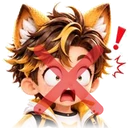
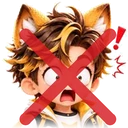
過關圖示：小花綠框加粗、阿發紅 X 加深加長

Changed region(s): [[0.125, 0.2188, 0.9375, 1.0]]

diff --git a/index.html b/index.html
@@ -1202,7 +1202,7 @@
     <img class="mascot m-sec" src="img/mascot/xiaohua-analyst.webp" alt="" width="190" height="190" loading="lazy" aria-hidden="true">
     <p class="eyebrow">DAILY ANALYSIS</p>
     <h2>每日分析</h2>
-    <p class="lead col">每天挑幾場可以單場投注的比賽，把先發、打線、交手與盤口一項一項攤開，推薦寫在文章最後，點進去就看得到。比賽打完，清單後面會標上結果：<img class="face-i" src="img/face-win.webp" alt="綠色笑臉" width="20" height="20"> 推薦過關、<img class="face-i" src="img/face-lose.webp" alt="紅色哭臉" width="20" height="20"> 沒過。</p>
+    <p class="lead col">每天挑幾場可以單場投注的比賽，把先發、打線、交手與盤口一項一項攤開，推薦寫在文章最後，點進去就看得到。比賽打完，清單後面會標上結果：<img class="face-i" src="img/face-win.webp?v=3" alt="綠色笑臉" width="20" height="20"> 推薦過關、<img class="face-i" src="img/face-lose.webp?v=3" alt="紅色哭臉" width="20" height="20"> 沒過。</p>
 
     <div class="news">
       <a class="board" id="board" href="#" hidden>
@@ -1490,7 +1490,7 @@
     function el(tag, cls, text) { var e = document.createElement(tag); if (cls) e.className = cls; if (text != null) e.textContent = text; return e; }
     function md(d) { var p = d.split("-"); return +p[1] + "/" + +p[2]; }
     function pickOf(p) { return p.market + "　" + p.selection + " @" + p.odds; }
-    var RES = { win: ["img/face-win.webp", "推薦過關"], lose: ["img/face-lose.webp", "推薦沒過"], push: ["走盤", "走盤，退還本金", 1], "void": ["延賽", "延賽，依規定退款", 1] };
+    var RES = { win: ["img/face-win.webp?v=3", "推薦過關"], lose: ["img/face-lose.webp?v=3", "推薦沒過"], push: ["走盤", "走盤，退還本金", 1], "void": ["延賽", "延賽，依規定退款", 1] };
     function faceOf(r) { var i = document.createElement("img"); i.src = r.mark; i.alt = ""; i.width = 32; i.height = 32; return i; }
     function kickDate(p) { var m = String(p.startTW || "").match(/^\d{4}\/(\d{1,2})\/(\d{1,2})/); return m ? +m[1] + "/" + +m[2] : md(p.date); }
     function resultOf(p) {
